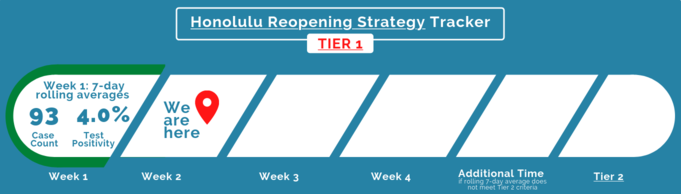
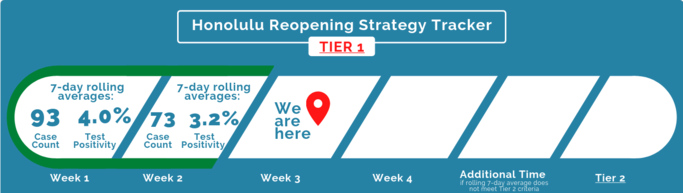
Add files via upload

diff --git a/index.html b/index.html
@@ -25,9 +25,12 @@
 		<br><img class="center-fit" src="population14day.png" alt="14 day total cases per 10k population"> 
 		<br><img class="center-fit" src="population7Day.png" alt="7 data total caases per 10K population">
 		<h1 style="text-align:center">Oahu</h1>
+		<br/>
+		<a href =https://www.oneoahu.org/reopening-strategy" style="text-align:center">
+			<br><img class="center-fit" src="roStat.png" alt="Reopening Status">
+			<br><img class="center-fit" src="roTrs.png" alt="Reopening Tiers">
+		</a>
 		<br><a href="https://www.oneoahu.org/reopening-strategy" style="text-align:center">One Oahu C&C status page</a>
-		<br><!--img class="center-fit" src="roStat.png" alt="Reopening Status"-->
-		<br><img class="center-fit" src="roTrs.png" alt="Reopening Tiers">
 		
 		<br><img class="center-fit" src="oahu_smoothed.png" alt="Oahu daily cases with smoothed average">
 		<br><img class="center-fit" src ="trend.png" alt="Oahu daily cases with 7 day mean and trend projection">
